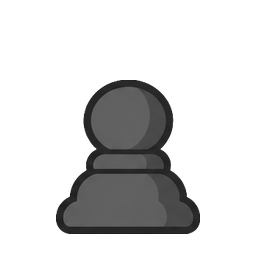
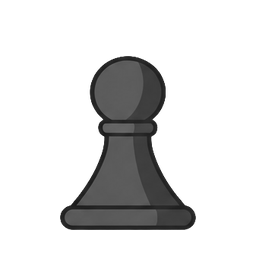
Game board: redraw pieces closer to the chess.com set
Classic silhouettes on a single base with thinner outlines, each piece
sized and proportioned to its chess.com counterpart, and neutral gray
black pieces. Coordinate labels are slightly larger. The piece version
is bumped so cached images refresh.

Changed region(s): [[0.2188, 0.2188, 0.7812, 0.9375]]

diff --git a/index.html b/index.html
@@ -1264,7 +1264,7 @@
       align-items: center;
       justify-content: center;
       color: #989795;
-      font: 700 max(7px, calc(var(--size) * 0.023))/1 'Inter', system-ui, sans-serif;
+      font: 700 max(7px, calc(var(--size) * 0.026))/1 'Inter', system-ui, sans-serif;
       user-select: none;
     }
 
@@ -5010,7 +5010,7 @@
           if (piece) {
             const color = r <= 1 ? 'b' : 'w';
             const img = document.createElement('img');
-            img.src = '/admin/pieces/' + color + piece + '.png?v=2';
+            img.src = '/admin/pieces/' + color + piece + '.png?v=3';
             img.alt = '';
             img.draggable = false;
             img.addEventListener('error', () => {

diff --git a/admin/admin.css b/admin/admin.css
@@ -516,7 +516,7 @@ html[dir="rtl"] .pipe-arrow { transform: scaleX(-1); }
 .board-frame .files { grid-column: 2; grid-row: 3; display: grid; grid-template-columns: repeat(8, 1fr); }
 .board-frame .ranks span, .board-frame .files span {
   display: flex; align-items: center; justify-content: center;
-  color: #989795; font: 700 max(8px, 2.3cqw)/1 'Inter', system-ui, sans-serif; user-select: none;
+  color: #989795; font: 700 max(8px, 2.6cqw)/1 'Inter', system-ui, sans-serif; user-select: none;
 }
 .board {
   grid-column: 2; grid-row: 2;

diff --git a/admin/ui.js b/admin/ui.js
@@ -636,7 +636,7 @@
   // images under /admin/pieces (wK.png ... bP.png); the Unicode glyph is the
   // fallback if an image is missing. Images are cached for a day, so bump
   // PIECE_VERSION whenever the set is redrawn.
-  const PIECE_VERSION = 2;
+  const PIECE_VERSION = 3;
   const PIECES = { K: '♔', Q: '♕', R: '♖', B: '♗', N: '♘', P: '♙', k: '♚', q: '♛', r: '♜', b: '♝', n: '♞', p: '♟' };
   function pieceImage(piece) {
     const color = piece === piece.toUpperCase() ? 'w' : 'b';
